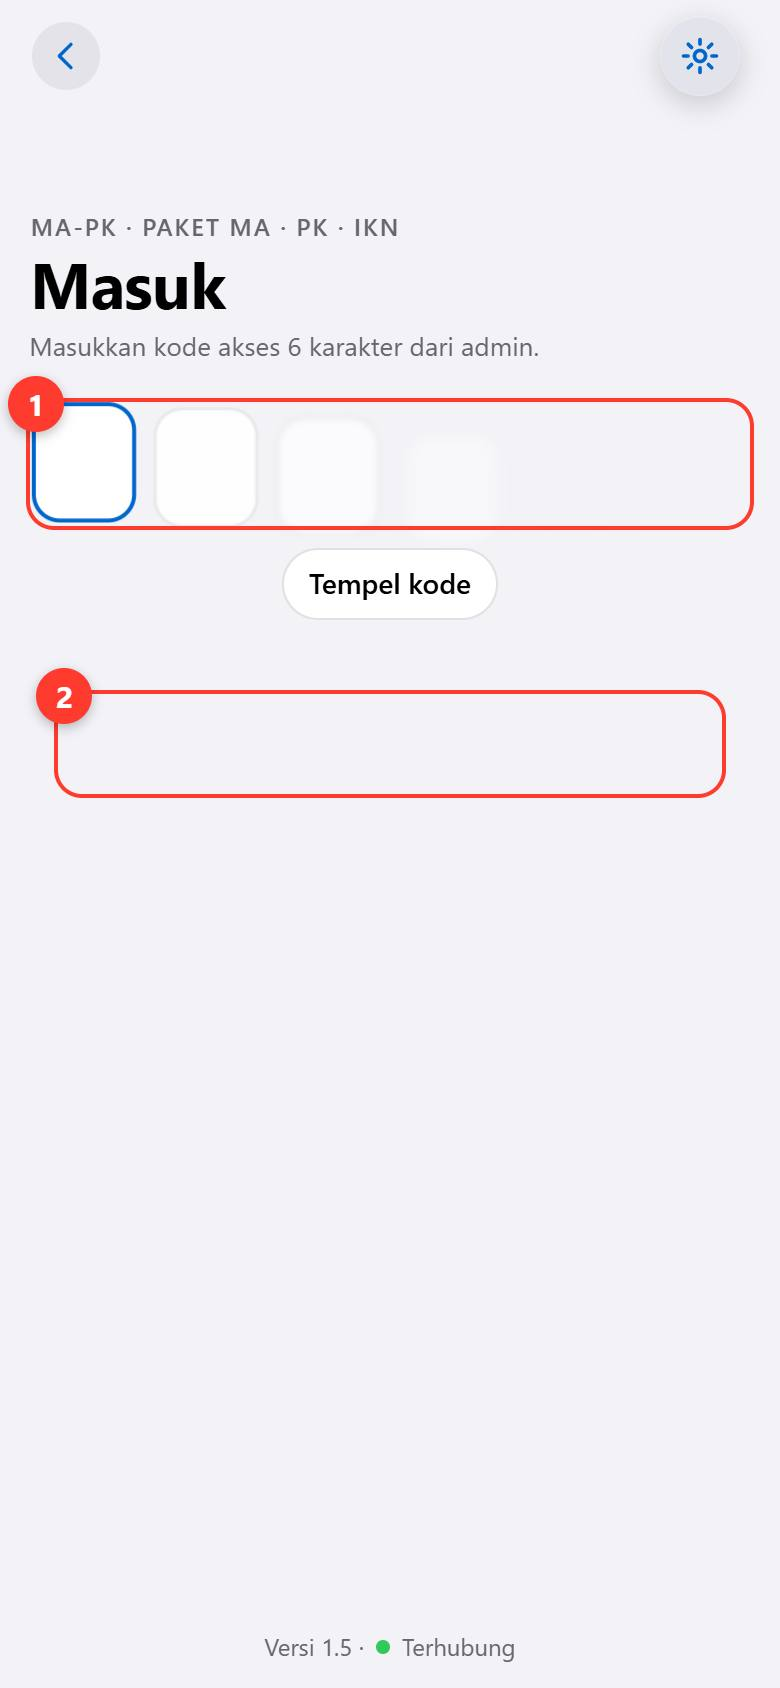
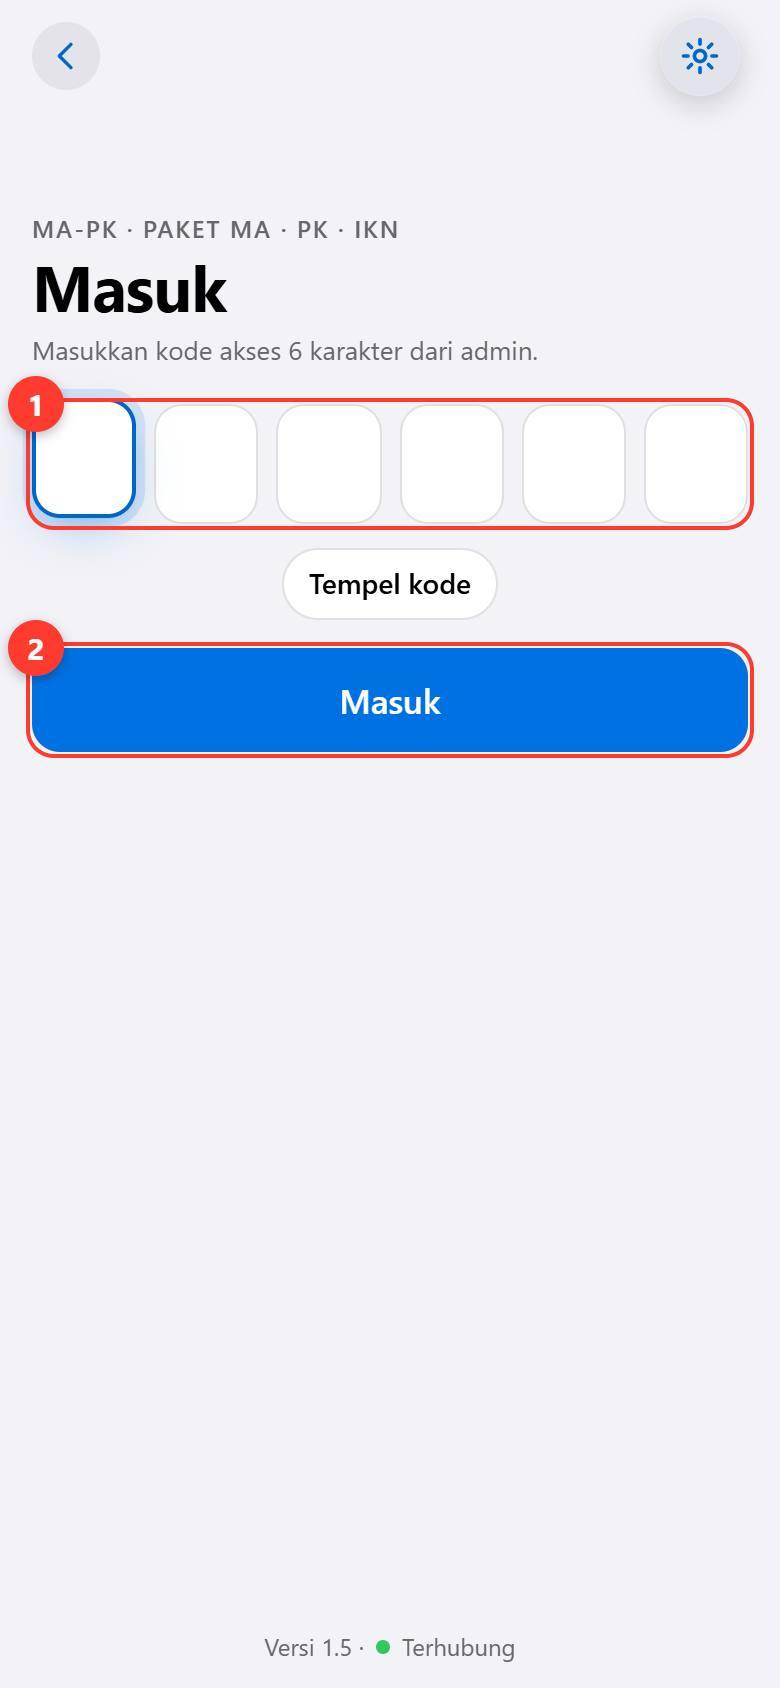
feat: Panduan jadi satu halaman yang digulir bergaya aplikasi dengan daftar isi chip (belum dipush)

diff --git a/panduan.js b/panduan.js
@@ -3,7 +3,6 @@
    dan disimpan di panduan/. Nomor merah pada gambar sama dengan nomor langkah di teks. */
 (function () {
   'use strict';
-  var KEY_POS = 'dl-pdn-pos', KEY_BACA = 'dl-pdn-baca';
   function esc(s) { return String(s == null ? '' : s).replace(/[&<>"]/g, function (c) { return { '&': '&amp;', '<': '&lt;', '>': '&gt;', '"': '&quot;' }[c]; }); }
   function ls(k) { try { return localStorage.getItem(k); } catch (e) { return null; } }
   function lsSet(k, v) { try { localStorage.setItem(k, v); } catch (e) { } }
@@ -154,60 +153,54 @@
     if (u && u.peran === 'ADMIN') k.mk = 1;
     return BAB.filter(function (b) { return b.untuk.some(function (x) { return k[x]; }); });
   }
-  function dibaca() { try { return JSON.parse(ls(KEY_BACA) || '{}'); } catch (e) { return {}; } }
 
-  var ST = null;   // { daftar, b, h }
+  var ST = null;   // { bab, u }
   function el() { return document.getElementById('panduan'); }
   function tutup() { var e = el(); if (e) e.remove(); ST = null; document.removeEventListener('keydown', tombol, true); }
-  function tombol(ev) { if (ev.key === 'Escape') { ev.stopPropagation(); tutup(); } }
-  function isi(h) {
-    var e = el();
-    if (!e) {
-      e = document.createElement('div'); e.id = 'panduan'; e.className = 'pdn'; e.setAttribute('role', 'dialog'); e.setAttribute('aria-modal', 'true'); e.setAttribute('aria-label', 'Panduan penggunaan');
-      document.body.appendChild(e);
-      e.addEventListener('click', klik);
-      document.addEventListener('keydown', tombol, true);
-    }
-    e.innerHTML = h; e.scrollTop = 0;
-    var sc = e.querySelector('.pdn-in'); if (sc) sc.scrollTop = 0;
+  function tombol(ev) { if (ev.key === 'Escape') { var z = document.querySelector('.pdn-zoom'); ev.stopPropagation(); if (z) z.remove(); else tutup(); } }
+  function labelKelas(u) {
+    if (!u) return '';
+    if (u.peran === 'ADMIN') return 'Admin';
+    if (u.peran === 'PJ') return u.qc === 'YA' ? 'QC PJ' : 'PJ';
+    if (u.qc === 'YA') return u.qcBidang === 'KOORD' ? 'Koordinator QC MK' : 'QC MK';
+    return 'MK';
   }
-  function daftarHtml() {
-    var bb = ST.bab, bc = dibaca();
-    return '<div class="pdn-bar"><b>Panduan</b><button type="button" class="pdn-x" data-p="tutup" aria-label="Tutup">&times;</button></div>' +
-      '<div class="pdn-in"><h1>Panduan penggunaan</h1><p class="pdn-sub">Pilih bab. Bab di bawah ini sesuai dengan akun Anda.</p><div class="pdn-list">' +
-      bb.map(function (b, i) {
-        var n = b.halaman.length, sudah = b.halaman.filter(function (_, j) { return bc[b.id + ':' + j]; }).length;
-        return '<button type="button" class="pdn-bab" data-p="bab" data-i="' + i + '"><span class="pdn-no">' + (i + 1) + '</span><span class="pdn-tx"><b>' + esc(b.judul) + '</b><small>' + esc(b.ringkas) + '</small></span><span class="pdn-pr">' + (sudah >= n ? '&#10003;' : sudah + '/' + n) + '</span></button>';
-      }).join('') + '</div></div>';
-  }
-  function halamanHtml() {
-    var b = ST.bab[ST.b], h = b.halaman[ST.h], n = b.halaman.length;
-    var bc = dibaca(); bc[b.id + ':' + ST.h] = 1; lsSet(KEY_BACA, JSON.stringify(bc)); lsSet(KEY_POS, b.id + ':' + ST.h);
-    var ada = n > 1;
-    var lanjut = ST.h < n - 1 ? { t: 'Berikutnya', p: 'maju' } : (ST.b < ST.bab.length - 1 ? { t: 'Bab berikutnya', p: 'babnext' } : { t: 'Selesai', p: 'daftar' });
-    return '<div class="pdn-bar"><button type="button" class="pdn-bk" data-p="daftar" aria-label="Daftar bab">&lsaquo; Daftar bab</button><button type="button" class="pdn-x" data-p="tutup" aria-label="Tutup">&times;</button></div>' +
-      '<div class="pdn-in"><div class="pdn-kr">Bab ' + (ST.b + 1) + ' &middot; ' + esc(b.judul) + (ada ? ' &middot; halaman ' + (ST.h + 1) + ' dari ' + n : '') + '</div>' +
-      '<h1>' + esc(h.judul) + '</h1>' + (h.intro ? '<p class="pdn-sub">' + esc(h.intro) + '</p>' : '') +
-      (h.img ? '<figure class="pdn-fig"><img src="panduan/' + esc(h.img) + '.jpg" alt="Tangkapan layar: ' + esc(h.judul) + '" loading="lazy" data-p="gambar"></figure>' : '') +
-      '<ol class="pdn-ls">' + h.langkah.map(function (l, i) { var b = h.tanpaNomor || !h.img; return '<li><span class="pdn-n' + (b ? ' pdn-b' : '') + '">' + (b ? '&bull;' : (i + 1)) + '</span><span>' + esc(l) + '</span></li>'; }).join('') + '</ol>' +
-      '<div class="pdn-nav"><button type="button" class="btn sec" data-p="mundur"' + (ST.h === 0 && ST.b === 0 ? ' disabled' : '') + '>Sebelumnya</button><button type="button" class="btn" data-p="' + lanjut.p + '">' + lanjut.t + '</button></div></div>';
+  /* Satu halaman panjang yang digulir: judul, daftar isi berupa chip, lalu tiap bab sebagai kartu berisi penjelasan, gambar, dan langkah bernomor. */
+  function dokumenHtml() {
+    var bb = ST.bab;
+    var h = '<div class="pdn-bar"><b>Panduan</b><button type="button" class="pdn-x" data-p="tutup" aria-label="Tutup">&times;</button></div>' +
+      '<div class="pdn-in"><div class="pdn-head"><div class="cap">Panduan &middot; ' + esc(labelKelas(ST.u)) + '</div><h1>Cara memakai aplikasi</h1>' +
+      '<p class="pdn-sub">Gulir untuk membaca semuanya, atau ketuk bab di bawah untuk langsung ke bagian itu. Isi panduan menyesuaikan akun Anda.</p></div>' +
+      '<div class="chips pdn-toc" role="group" aria-label="Daftar isi">' + bb.map(function (b) { return '<button type="button" class="chip" data-p="ke" data-id="' + esc(b.id) + '">' + esc(b.judul) + '</button>'; }).join('') + '</div>';
+    bb.forEach(function (b, i) {
+      h += '<section class="group pdn-sec" id="pdn-' + esc(b.id) + '"><div class="pdn-sh"><span class="pdn-no">' + (i + 1) + '</span><div><b>' + esc(b.judul) + '</b><small>' + esc(b.ringkas) + '</small></div></div>';
+      b.halaman.forEach(function (g) {
+        var tanpa = g.tanpaNomor || !g.img;
+        h += '<div class="pdn-pg"><h3>' + esc(g.judul) + '</h3>' + (g.intro ? '<p>' + esc(g.intro) + '</p>' : '') +
+          (g.img ? '<figure class="pdn-fig"><img src="panduan/' + esc(g.img) + '.jpg" alt="Tangkapan layar: ' + esc(g.judul) + '" width="390" height="844" loading="lazy" data-p="gambar"></figure>' : '') +
+          '<ol class="pdn-ls">' + g.langkah.map(function (l, k) { return '<li><span class="pdn-n' + (tanpa ? ' pdn-b' : '') + '">' + (tanpa ? '&bull;' : (k + 1)) + '</span><span>' + esc(l) + '</span></li>'; }).join('') + '</ol></div>';
+      });
+      h += '</section>';
+    });
+    return h + '</div>';
   }
   function klik(ev) {
     var t = ev.target.closest && ev.target.closest('[data-p]'); if (!t || !ST) return;
     ev.stopPropagation();
-    var p = t.getAttribute('data-p'), b = ST.bab[ST.b];
+    var p = t.getAttribute('data-p');
     if (p === 'tutup') return tutup();
-    if (p === 'daftar') { ST.daftar = true; return isi(daftarHtml()); }
-    if (p === 'bab') { ST.b = +t.getAttribute('data-i'); ST.h = 0; ST.daftar = false; return isi(halamanHtml()); }
-    if (p === 'maju') { ST.h++; return isi(halamanHtml()); }
-    if (p === 'babnext') { ST.b++; ST.h = 0; return isi(halamanHtml()); }
-    if (p === 'mundur') { if (ST.h > 0) ST.h--; else if (ST.b > 0) { ST.b--; ST.h = ST.bab[ST.b].halaman.length - 1; } return isi(halamanHtml()); }
-    if (p === 'gambar') { var im = t, ov = document.createElement('div'); ov.className = 'pdn-zoom'; ov.innerHTML = '<img src="' + im.src + '" alt="">'; ov.addEventListener('click', function () { ov.remove(); }); document.body.appendChild(ov); }
+    if (p === 'ke') { var sec = document.getElementById('pdn-' + t.getAttribute('data-id')); if (sec) sec.scrollIntoView({ block: 'start', behavior: 'smooth' }); return; }
+    if (p === 'gambar') { var ov = document.createElement('div'); ov.className = 'pdn-zoom'; ov.innerHTML = '<img src="' + t.src + '" alt="">'; ov.addEventListener('click', function () { ov.remove(); }); document.body.appendChild(ov); }
   }
   function buka(u) {
     var bab = babUntuk(u); if (!bab.length) return;
-    ST = { bab: bab, b: 0, h: 0, daftar: true };
-    isi(daftarHtml());
+    ST = { bab: bab, u: u };
+    var e = el();
+    if (!e) {
+      e = document.createElement('div'); e.id = 'panduan'; e.className = 'pdn'; e.setAttribute('role', 'dialog'); e.setAttribute('aria-modal', 'true'); e.setAttribute('aria-label', 'Panduan penggunaan');
+      document.body.appendChild(e); e.addEventListener('click', klik); document.addEventListener('keydown', tombol, true);
+    }
+    e.innerHTML = dokumenHtml(); e.scrollTop = 0;
   }
   window.PANDUAN = { buka: buka, babUntuk: babUntuk, kelas: kelas, BAB: BAB };
 })();

diff --git a/index.html b/index.html
@@ -397,28 +397,30 @@
   .tur .tj{ display:block; font-size:19px; line-height:24px; margin:2px 0 4px; }
   .tur .tt{ margin:0 0 12px; font-size:15px; line-height:21px; color:var(--label2); }
   .tur .tb{ display:flex; gap:10px; } .tur .tb .btn{ min-height:44px; flex:1; }
-  /* Panduan penggunaan (pembaca seperti ebook) */
-  .pdn{ position:fixed; inset:0; z-index:45; overflow:auto; background:var(--gbg1); color:var(--label1); -webkit-overflow-scrolling:touch; }
-  .pdn-bar{ position:sticky; top:0; z-index:2; display:flex; align-items:center; justify-content:space-between; gap:10px; padding:calc(env(safe-area-inset-top,0px) + 10px) 16px 10px; background:var(--dock); -webkit-backdrop-filter:var(--blur-glass); backdrop-filter:var(--blur-glass); box-shadow:inset 0 -.5px 0 var(--sep); }
+  /* Panduan penggunaan: satu halaman yang digulir, bergaya sama dengan aplikasi */
+  .pdn{ position:fixed; inset:0; z-index:45; overflow:auto; background:var(--gbg1); color:var(--label1); -webkit-overflow-scrolling:touch; scroll-behavior:smooth; }
+  .pdn-bar{ position:sticky; top:0; z-index:5; display:flex; align-items:center; justify-content:space-between; gap:10px; padding:calc(env(safe-area-inset-top,0px) + 10px) 16px 10px; background:var(--dock); -webkit-backdrop-filter:var(--blur-glass); backdrop-filter:var(--blur-glass); box-shadow:inset 0 -.5px 0 var(--sep); }
   .pdn-bar b{ font-size:17px; }
   .pdn-x{ width:36px; height:36px; border:0; border-radius:50%; background:var(--fill3); color:var(--label1); font-size:24px; line-height:1; cursor:pointer; }
-  .pdn-bk{ border:0; background:transparent; color:var(--blue-teks); font:inherit; font-size:16px; font-weight:600; cursor:pointer; padding:6px 4px; }
-  .pdn-in{ max-width:560px; margin:0 auto; padding:18px 18px calc(env(safe-area-inset-bottom,0px) + 40px); }
-  .pdn-in h1{ margin:0 0 6px; font-size:28px; line-height:34px; letter-spacing:-.4px; }
-  .pdn-sub{ margin:0 0 16px; font-size:16px; line-height:23px; color:var(--label2); }
-  .pdn-kr{ font-size:12px; letter-spacing:.4px; text-transform:uppercase; color:var(--label2); font-weight:600; margin-bottom:6px; }
-  .pdn-list{ display:flex; flex-direction:column; gap:8px; }
-  .pdn-bab{ display:flex; align-items:center; gap:14px; width:100%; padding:14px 16px; border:0; border-radius:16px; background:var(--gbg2); color:var(--label1); font:inherit; text-align:left; cursor:pointer; box-shadow:inset 0 0 0 1px var(--sep); }
-  .pdn-no{ flex:none; width:32px; height:32px; border-radius:50%; background:var(--blue-fill); color:var(--blue-teks); font-weight:700; display:flex; align-items:center; justify-content:center; }
-  .pdn-tx{ flex:1; min-width:0; } .pdn-tx b{ display:block; font-size:16px; line-height:21px; } .pdn-tx small{ display:block; font-size:13px; line-height:18px; color:var(--label2); }
-  .pdn-pr{ flex:none; font-size:13px; color:var(--label2); font-variant-numeric:tabular-nums; }
-  .pdn-fig{ margin:0 0 18px; text-align:center; }
-  .pdn-fig img{ width:100%; max-width:390px; height:auto; border-radius:22px; box-shadow:0 6px 28px #00000033, inset 0 0 0 1px var(--sep); cursor:zoom-in; background:var(--gbg2); }
-  .pdn-ls{ list-style:none; margin:0 0 22px; padding:0; display:flex; flex-direction:column; gap:12px; }
-  .pdn-ls li{ display:flex; gap:12px; align-items:flex-start; font-size:16px; line-height:23px; }
-  .pdn-n{ flex:none; width:26px; height:26px; margin-top:-1px; border-radius:50%; background:#ff3b30; color:#fff; font-size:14px; font-weight:700; display:flex; align-items:center; justify-content:center; }
+  .pdn-in{ max-width:620px; margin:0 auto; padding:10px 16px calc(env(safe-area-inset-bottom,0px) + 48px); }
+  .pdn-head{ padding:10px 0 14px; }
+  .pdn-head .cap{ margin:0; }
+  .pdn-head h1{ margin:2px 0 8px; font-size:32px; line-height:38px; font-weight:700; letter-spacing:-.4px; }
+  .pdn-sub{ margin:0; font-size:16px; line-height:23px; color:var(--label2); }
+  .pdn-toc{ margin:0 -16px 18px; padding:6px 16px; }
+  .pdn-sec{ padding:20px 18px 6px; margin:0 0 16px; scroll-margin-top:70px; }
+  .pdn-sh{ display:flex; align-items:center; gap:12px; margin:0 0 14px; }
+  .pdn-no{ flex:none; width:30px; height:30px; border-radius:50%; background:var(--blue-fill); color:var(--blue-teks); font-weight:700; display:flex; align-items:center; justify-content:center; }
+  .pdn-sh b{ display:block; font-size:21px; line-height:26px; letter-spacing:-.2px; } .pdn-sh small{ display:block; font-size:14px; line-height:19px; color:var(--label2); }
+  .pdn-pg{ padding:14px 0 18px; } .pdn-pg + .pdn-pg{ border-top:1px solid var(--sep); }
+  .pdn-pg h3{ margin:0 0 4px; font-size:17px; line-height:22px; }
+  .pdn-pg p{ margin:0 0 12px; font-size:15px; line-height:22px; color:var(--label2); }
+  .pdn-fig{ margin:0 0 14px; text-align:center; }
+  .pdn-fig img{ width:100%; max-width:360px; height:auto; border-radius:20px; box-shadow:0 4px 22px #00000026, inset 0 0 0 1px var(--sep); cursor:zoom-in; background:var(--gbg1); }
+  .pdn-ls{ list-style:none; margin:0; padding:0; display:flex; flex-direction:column; gap:10px; }
+  .pdn-ls li{ display:flex; gap:12px; align-items:flex-start; font-size:15px; line-height:22px; }
+  .pdn-n{ flex:none; width:24px; height:24px; margin-top:-1px; border-radius:50%; background:#ff3b30; color:#fff; font-size:13px; font-weight:700; display:flex; align-items:center; justify-content:center; }
   .pdn-n.pdn-b{ background:var(--fill3); color:var(--label2); }
-  .pdn-nav{ display:flex; gap:10px; } .pdn-nav .btn{ flex:1; }
   .pdn-zoom{ position:fixed; inset:0; z-index:46; background:#000000e6; display:flex; align-items:center; justify-content:center; padding:16px; }
   .pdn-zoom img{ max-width:100%; max-height:100%; border-radius:14px; }
   /* Pengaturan per bagian */
